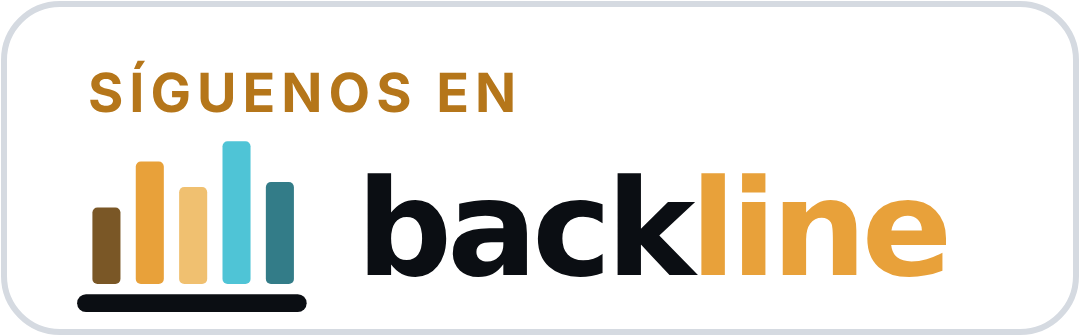
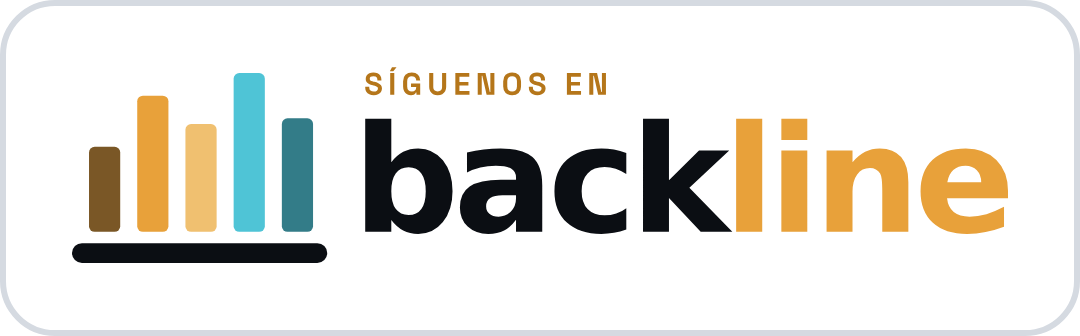
Nueva insignia «Síguenos en Backline» (barras a la izquierda, nombre y gráfico más grandes)
Claude-Session: https://claude.ai/code/session_01GvuJwsEeSchButF5MtkKSJ

diff --git a/sw.js b/sw.js
@@ -24,7 +24,7 @@
 // IMPORTANTE: cada vez que cambie un archivo de la app (pantallas, estilos,
 // código, iconos, tipografías), hay que subir este número. Es el único número
 // de versión. Para cambiar grupos.json NO hace falta tocarlo.
-var VERSION = 38;
+var VERSION = 39;
 
 var CACHE = 'backline-v' + VERSION;
 var ARCHIVOS = [
